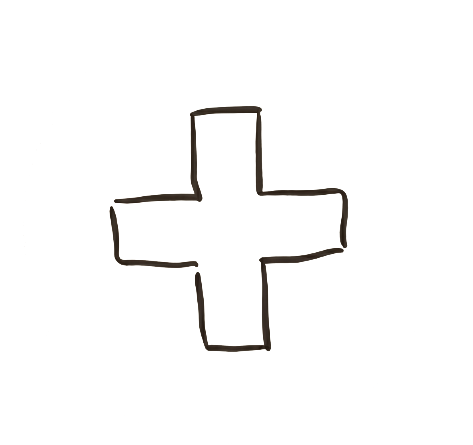
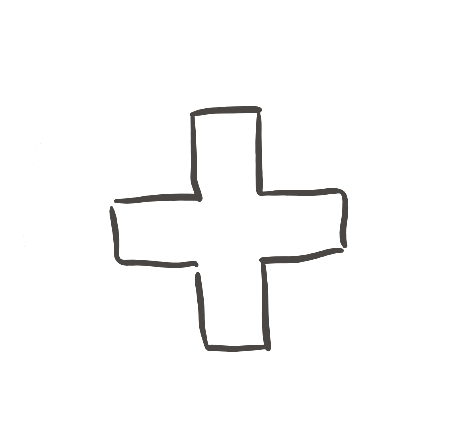
Dress the home page in the family's own artwork
The nav icons share one ink colour on transparent backgrounds, the empty
week shows the phone card sized off its measured row so the artwork
cannot stretch the page, and the stat cards take the yellow and pink
wash from the design.

Generated with [Devin](https://devin.ai)

Changed region(s): [[0.2072, 0.2337, 0.74, 0.7888]]

diff --git a/app/(tabs)/index.tsx b/app/(tabs)/index.tsx
@@ -1,12 +1,12 @@
 import React, { useEffect, useState } from 'react';
-import { ScrollView, StyleSheet, useWindowDimensions, View } from 'react-native';
+import { Image, ScrollView, StyleSheet, useWindowDimensions, View } from 'react-native';
 import { Redirect, useRouter } from 'expo-router';
 import { useSafeAreaInsets } from 'react-native-safe-area-context';
 import { Text } from '../../components/Handwriting';
 import { AvatarFace } from '../../components/AvatarFace';
 import { AvatarButton } from '../../components/AvatarButton';
 import { PostStack } from '../../components/PostStack';
-import { GreenStar, HeartsDoodle, PhoneDoodle, YellowStar } from '../../components/Doodles';
+import { GreenStar, HeartsDoodle, YellowStar } from '../../components/Doodles';
 import { weekRange, weekStats, weekTallies } from '../../lib/week';
 import { weekCards, type WeekCard } from '../../lib/weekCards';
 import { describeMedia } from '../../lib/describe';
@@ -22,6 +22,7 @@ export default function Home() {
   const { group, members, posts, hangoutPosts, reactions, memberById, loading } = useApp();
   const insets = useSafeAreaInsets();
   const [cards, setCards] = useState<WeekCard[] | null>(null);
+  const [cardWidth, setCardWidth] = useState(0);
   const { height: screenHeight } = useWindowDimensions();
   // Wakes the screen once the week rolls over, so the dates and the photo pile
   // restart even if the app stays open through Sunday night.
@@ -79,29 +80,41 @@ export default function Home() {
             {dayMonth(start)}–{dayMonth(end)}
           </Text>
         </View>
-        <AvatarButton />
+        <View style={styles.avatarLift}>
+          <AvatarButton size={54} />
+        </View>
       </View>
 
-      {thisWeek.length === 0 ? (
-        <View style={styles.emptyCard}>
-          <Text style={styles.empty}>nothing shared yet... :(</Text>
-          <PhoneDoodle size={22} style={styles.emptyPhone} />
-        </View>
-      ) : (
-        <View
-          style={{
-            // The pile starts about a quarter of the way down the screen.
-            marginTop: Math.max(spacing.sm, screenHeight * 0.25 - insets.top - 109),
-          }}
-        >
+      <View
+        style={{
+          // The pile hangs about a quarter of the way down the screen; the
+          // empty card just follows the dates.
+          marginTop:
+            thisWeek.length === 0
+              ? spacing.md
+              : Math.max(spacing.sm, screenHeight * 0.25 - insets.top - 124),
+        }}
+        onLayout={(e) => setCardWidth(e.nativeEvent.layout.width)}
+      >
+        {thisWeek.length === 0 ? (
+          // Sized off the measured row: the artwork's own pixel width would
+          // otherwise stretch the page wider than the phone.
+          cardWidth > 0 && (
+            <Image
+              source={require('../../assets/doodles/empty-week.png')}
+              style={[styles.emptyCard, { width: cardWidth, height: (cardWidth * 814) / 964 }]}
+              resizeMode="contain"
+            />
+          )
+        ) : (
           <PostStack
             key={start.getTime()}
             posts={thisWeek}
             nameOf={(id) => memberById(id)?.name ?? 'Someone'}
             onOpen={(post) => router.push(`/post/${post.id}`)}
           />
-        </View>
-      )}
+        )}
+      </View>
 
       {(cards
         ? cards.map((card) => ({
@@ -117,7 +130,13 @@ export default function Home() {
           }))
       ).map((box, i) => (
         <View key={box.label} style={styles.statWrap}>
-          <View style={styles.stat}>
+          <View
+            style={[
+              styles.stat,
+              { backgroundColor: i === 0 ? '#FDD98B4D' : '#E9B0B566' },
+              i === 1 && { minHeight: 107 },
+            ]}
+          >
             <Text style={styles.statLabel}>{box.label}</Text>
             {box.member && (
               <View style={styles.statWho}>
@@ -127,7 +146,7 @@ export default function Home() {
             )}
           </View>
           {i === 0 && <YellowStar size={54} style={styles.starBox} />}
-          {i === 1 && <HeartsDoodle size={54} style={styles.heartsBox} />}
+          {i === 1 && <HeartsDoodle size={68} style={styles.heartsBox} />}
         </View>
       ))}
     </ScrollView>
@@ -137,28 +156,21 @@ export default function Home() {
 const styles = StyleSheet.create({
   wrap: { flex: 1, backgroundColor: colors.bg },
   body: { padding: spacing.md, paddingBottom: spacing.lg },
-  header: { flexDirection: 'row', alignItems: 'flex-start', justifyContent: 'space-between' },
+  header: {
+    flexDirection: 'row',
+    alignItems: 'flex-start',
+    justifyContent: 'space-between',
+    marginTop: 25,
+  },
   title: { fontSize: 34, color: colors.text },
   dates: { fontSize: 15, color: colors.muted },
-  empty: { fontSize: 18, color: colors.text },
-  emptyCard: {
-    // Sits straight on the stat cards, with only the receiver's headroom above.
-    marginTop: 52,
-    marginBottom: spacing.sm,
-    padding: spacing.md,
-    minHeight: 104,
-    justifyContent: 'center',
-    backgroundColor: '#F0F0F0',
-    borderRadius: radius.md,
-  },
-  // The receiver dangles into the card from above, cord and all.
-  emptyPhone: { position: 'absolute', right: 30, top: -46 },
+  emptyCard: { marginBottom: spacing.sm + 7 },
+  avatarLift: { marginTop: -3 },
   starTitle: { position: 'absolute', left: -20, top: -24 },
   statWrap: { marginBottom: spacing.sm },
   stat: {
     padding: spacing.md,
     minHeight: 92,
-    backgroundColor: colors.card,
     borderRadius: radius.md,
   },
   starBox: { position: 'absolute', right: -12, top: '35%' },

diff --git a/components/NavBar.tsx b/components/NavBar.tsx
@@ -31,7 +31,7 @@ export function NavBar({ state, navigation }: NavBarProps) {
           onPress={() => navigation.navigate('index')}
           hitSlop={6}
         >
-          <HouseIcon size={44} dim={active !== 'index'} />
+          <HouseIcon size={34} dim={active !== 'index'} />
         </Pressable>
         <View style={styles.divider} />
         <Pressable
@@ -39,7 +39,7 @@ export function NavBar({ state, navigation }: NavBarProps) {
           onPress={() => navigation.navigate('path')}
           hitSlop={6}
         >
-          <RoadIcon size={48} dim={active !== 'path'} />
+          <RoadIcon size={36} dim={active !== 'path'} />
         </Pressable>
       </View>
       <View style={styles.spacer} />

diff --git a/components/Doodles.tsx b/components/Doodles.tsx
@@ -1,8 +1,8 @@
 import React from 'react';
 import { Image, ImageStyle, StyleProp } from 'react-native';
 
-const houseImg = require('../assets/doodles/house.jpg');
-const roadImg = require('../assets/doodles/road.jpg');
+const houseImg = require('../assets/doodles/house.png');
+const roadImg = require('../assets/doodles/road.png');
 const plusImg = require('../assets/doodles/plus-sign.png');
 const starYellowImg = require('../assets/doodles/star-yellow.png');
 const starGreenImg = require('../assets/doodles/star-green.png');
